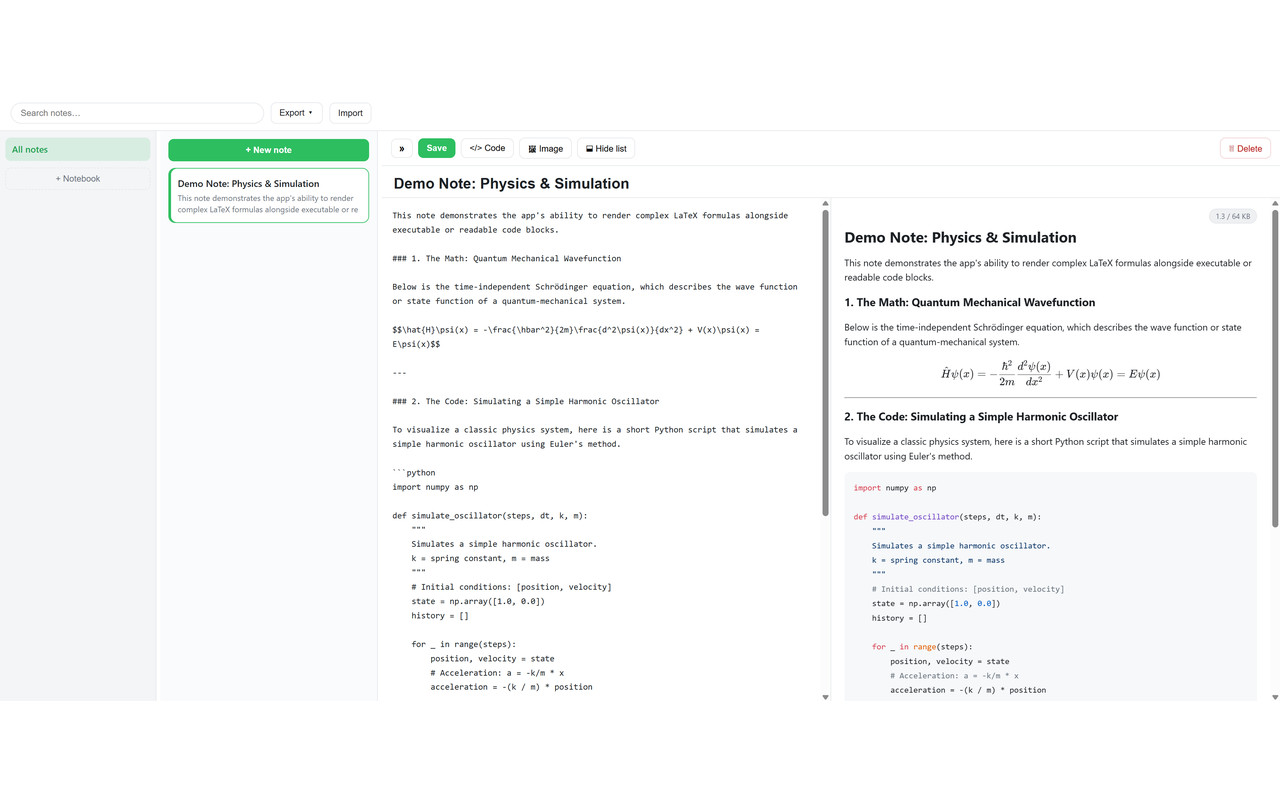
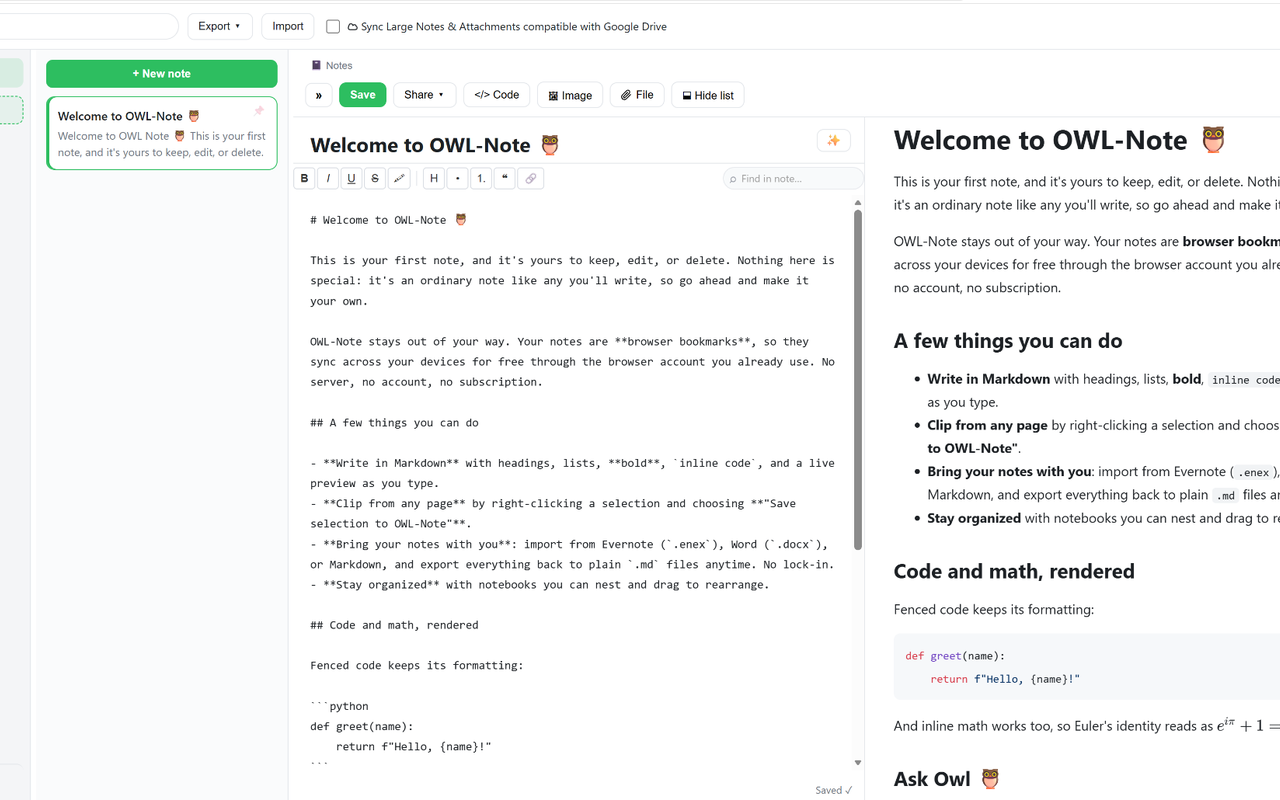
docs: replace README screenshot asset

diff --git a/README.md b/README.md
@@ -15,7 +15,7 @@ Free, private Markdown notes — with code and math — synced by your own brows
 
 <img src="assets/ask-owl.gif" alt="Ask Owl demo: asking a question in the Ask Owl panel — the on-device semantic index searches every note and answers from the right recipe note, with a citation that jumps to it" width="820">
 
-<img src="screenshots/OWL-Note-1280x800.png" alt="OWL-Note editor showing the welcome note in Markdown beside its live rendered preview, with notebooks and note tools" width="820">
+<img src="assets/screenshot.png" alt="OWL-Note editor showing the welcome note in Markdown beside its live rendered preview, with notebooks and note tools" width="820">
 
 </div>
 
